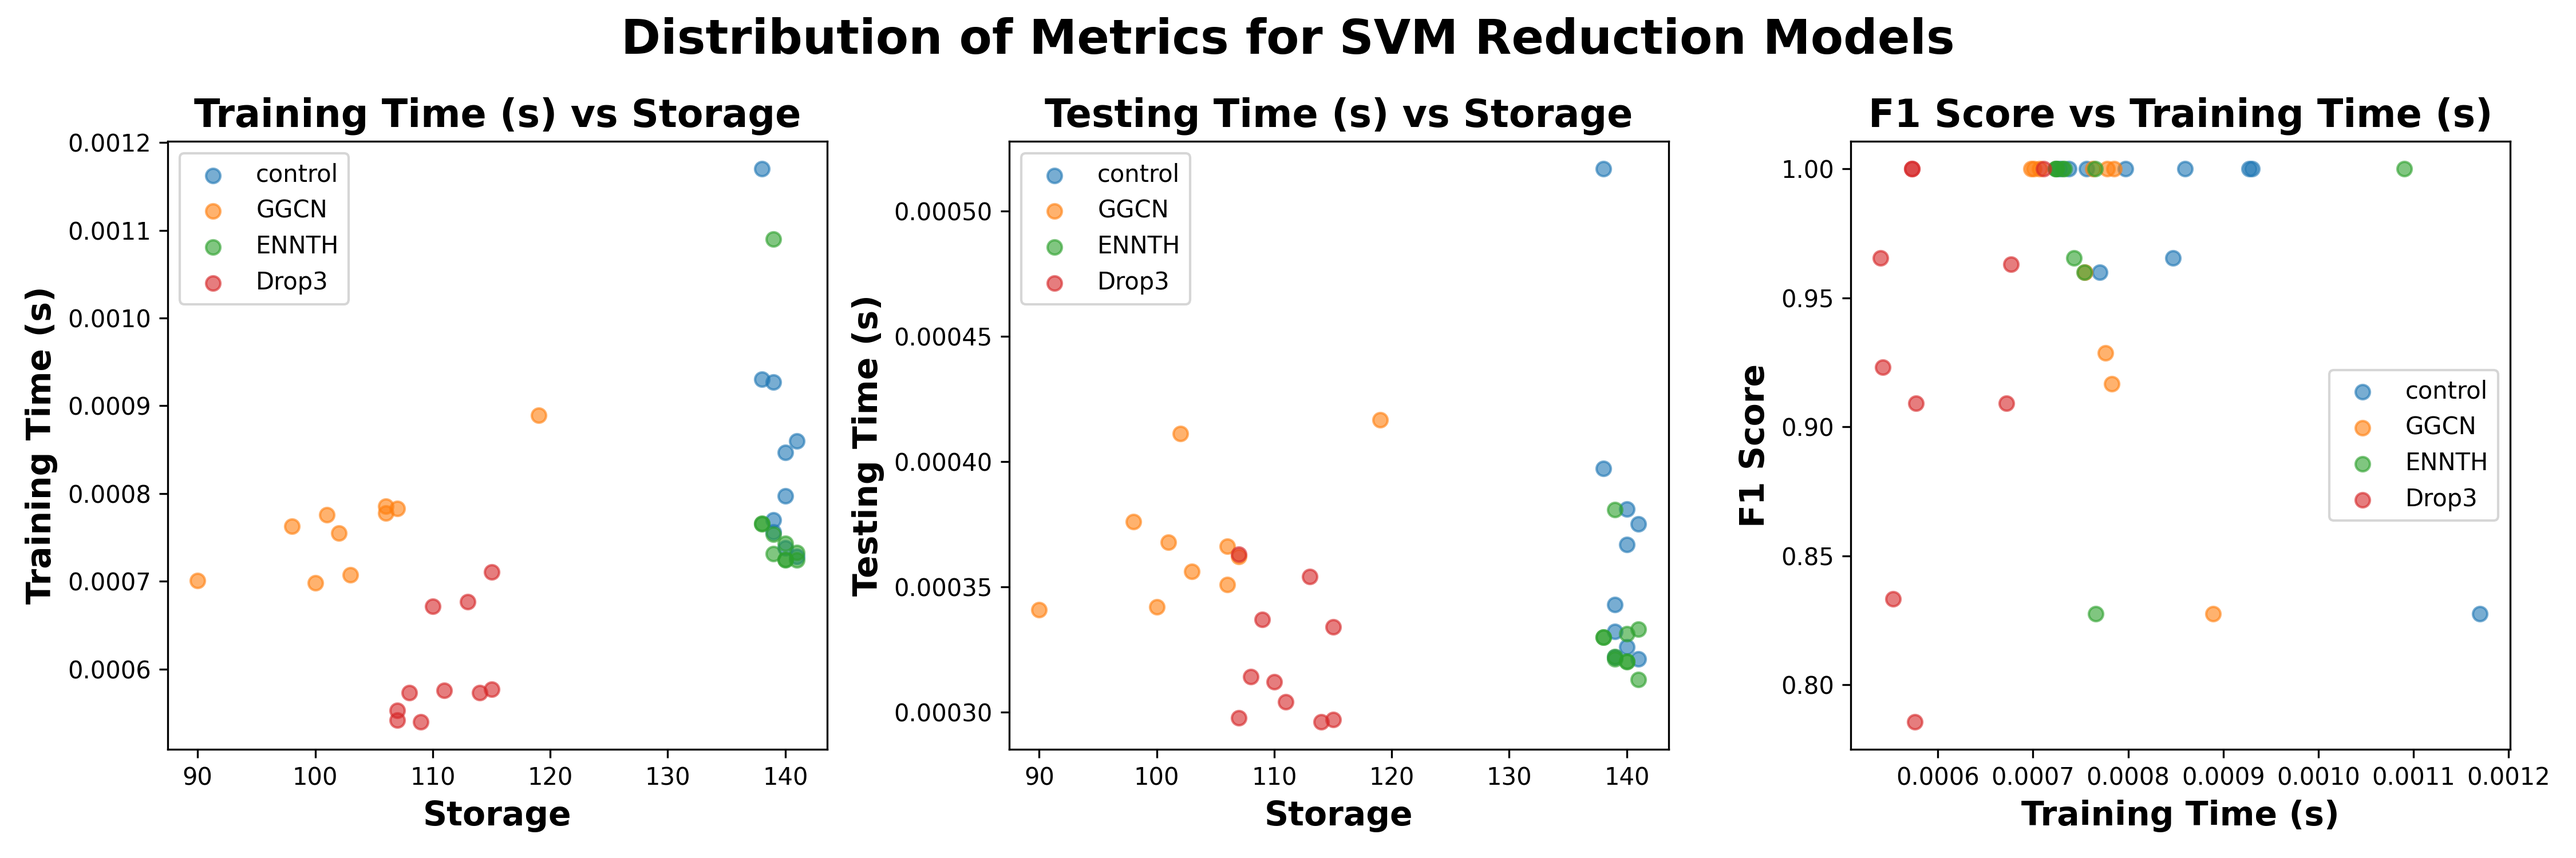
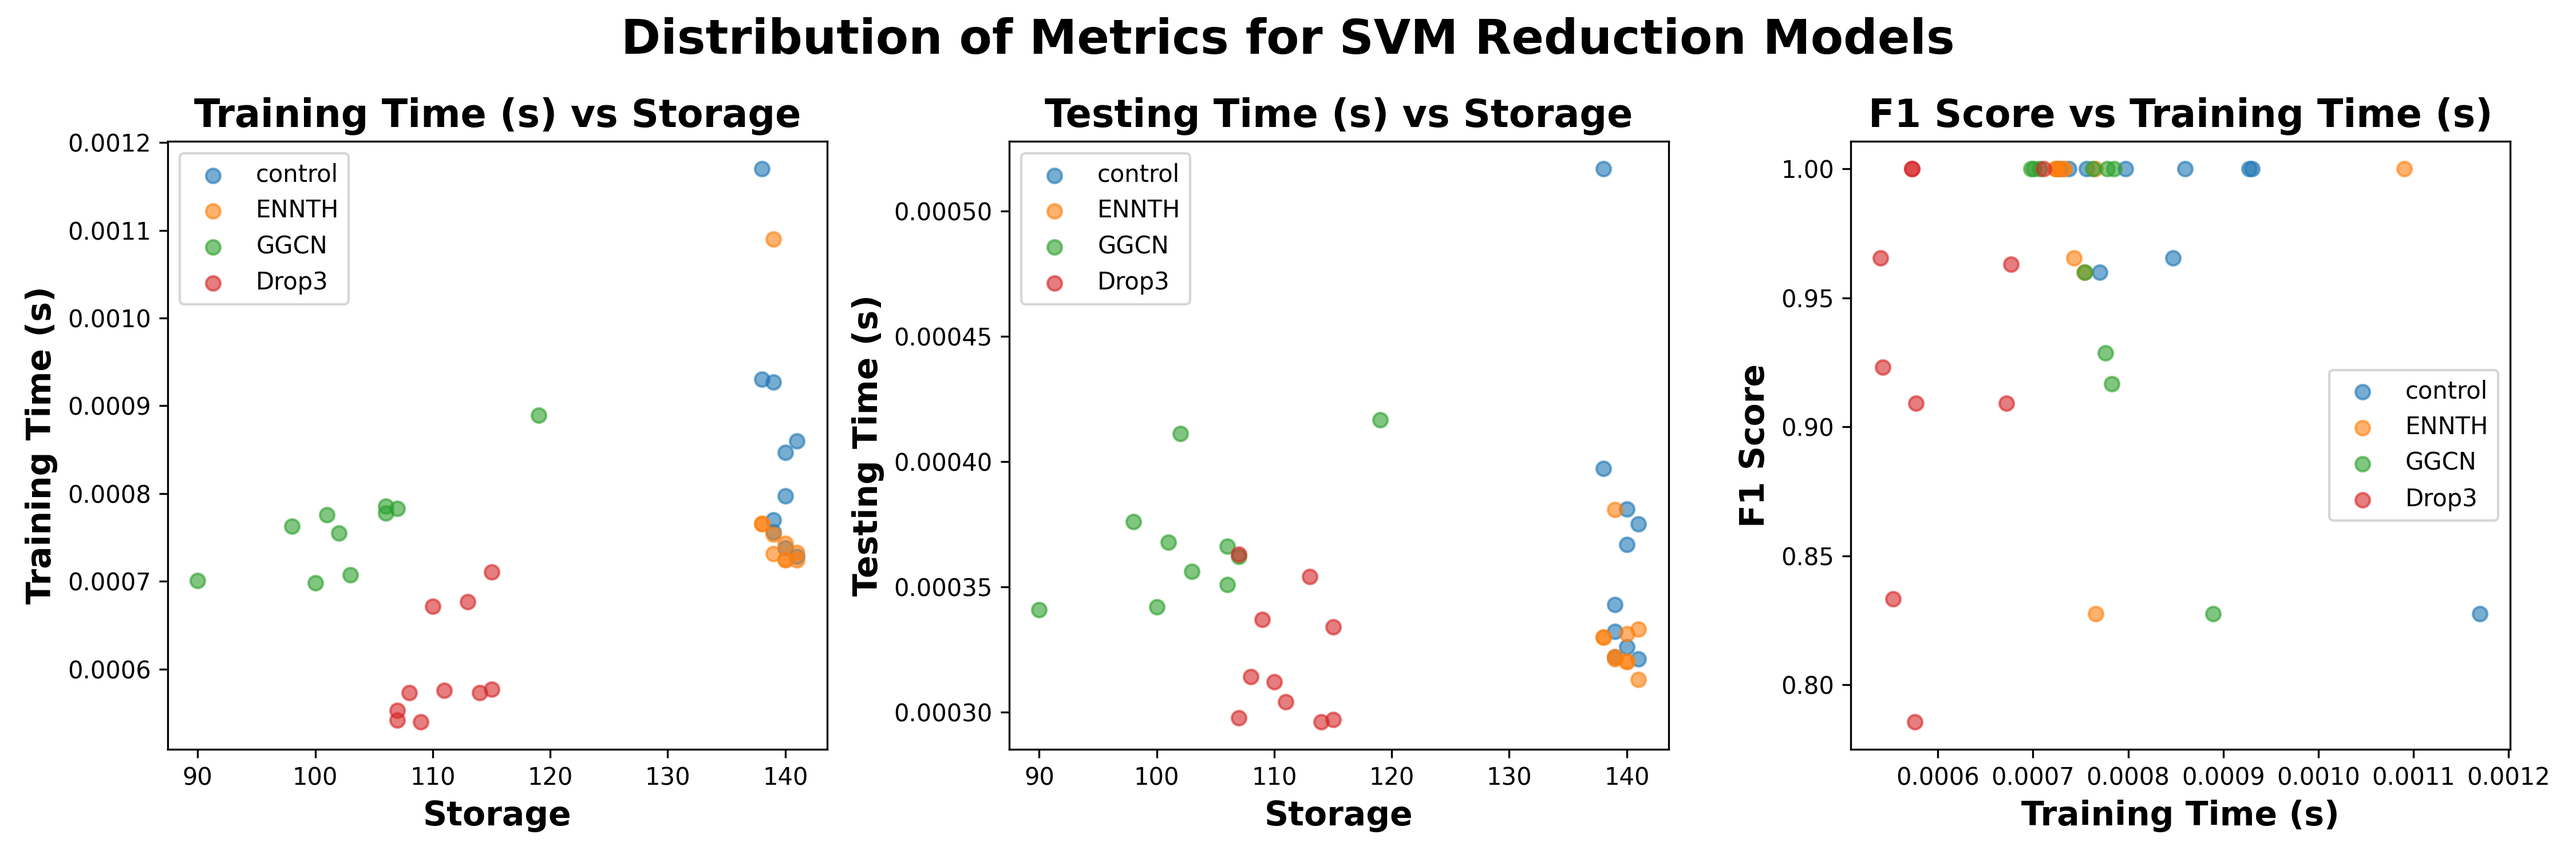
update tables and figures

diff --git a/work2/reports/tables/knn_results_mushroom.tex b/work2/reports/tables/knn_results_mushroom.tex
@@ -1,21 +1,21 @@
 \begin{table}
 \centering
-\caption{Results from KNN models for the mushroom dataset}
+\caption{Results From Knn Models For The Mushroom Dataset}
 \label{tab:knn_results_mushroom}
-\begin{tabular}{rrlllrr}
+\begin{tabular}{rrlllrrr}
 \toprule
- & k & distance func & voting func & weighting func & accuracy & f1 \\
+ & k & distance func & voting func & weighting func & mean f1 & mean train time & mean test time \\
 \midrule
-1 & 7 & ManhattanDistance & ShepardsWorkVote & EqualWeighting & 0.951 & 0.952 \\
-2 & 5 & ManhattanDistance & ShepardsWorkVote & EqualWeighting & 0.951 & 0.952 \\
-3 & 3 & ManhattanDistance & ShepardsWorkVote & EqualWeighting & 0.951 & 0.952 \\
-4 & 1 & ManhattanDistance & MajorityClassVote & EqualWeighting & 0.950 & 0.951 \\
-5 & 1 & ManhattanDistance & InverseDistanceWeightedVote & EqualWeighting & 0.950 & 0.951 \\
-6 & 1 & ManhattanDistance & ShepardsWorkVote & EqualWeighting & 0.950 & 0.951 \\
-7 & 5 & ManhattanDistance & InverseDistanceWeightedVote & EqualWeighting & 0.933 & 0.933 \\
-8 & 7 & ManhattanDistance & InverseDistanceWeightedVote & EqualWeighting & 0.930 & 0.929 \\
-9 & 3 & ManhattanDistance & InverseDistanceWeightedVote & EqualWeighting & 0.928 & 0.929 \\
-10 & 3 & ManhattanDistance & MajorityClassVote & EqualWeighting & 0.926 & 0.927 \\
+1 & 1 & ManhattanDistance & MajorityClassVote & EqualWeighting & 1.000 & 0.000 & 15.225 \\
+2 & 3 & EuclideanDistance & InverseDistanceWeightedVote & EqualWeighting & 1.000 & 0.000 & 17.753 \\
+3 & 1 & EuclideanDistance & MajorityClassVote & EqualWeighting & 1.000 & 0.000 & 17.891 \\
+4 & 1 & ManhattanDistance & InverseDistanceWeightedVote & EqualWeighting & 1.000 & 0.000 & 15.545 \\
+5 & 1 & ManhattanDistance & ShepardsWorkVote & EqualWeighting & 1.000 & 0.000 & 14.988 \\
+6 & 1 & EuclideanDistance & InverseDistanceWeightedVote & EqualWeighting & 1.000 & 0.000 & 17.843 \\
+7 & 3 & ManhattanDistance & MajorityClassVote & EqualWeighting & 1.000 & 0.000 & 14.979 \\
+8 & 3 & ManhattanDistance & InverseDistanceWeightedVote & EqualWeighting & 1.000 & 0.000 & 15.154 \\
+9 & 3 & ManhattanDistance & ShepardsWorkVote & EqualWeighting & 1.000 & 0.000 & 15.163 \\
+10 & 3 & EuclideanDistance & MajorityClassVote & EqualWeighting & 1.000 & 0.000 & 18.055 \\
 \bottomrule
 \end{tabular}
 \end{table}

diff --git a/work2/reports/tables/knn_results_hepatitis.tex b/work2/reports/tables/knn_results_hepatitis.tex
@@ -7,15 +7,15 @@
  & k & distance func & voting func & weighting func & mean f1 & mean train time & mean test time \\
 \midrule
 1 & 1 & ChebyshevDistance & ShepardsWorkVote & EqualWeighting & 0.973 & 0.000 & 0.007 \\
-2 & 1 & ChebyshevDistance & InverseDistanceWeightedVote & EqualWeighting & 0.973 & 0.000 & 0.007 \\
-3 & 1 & ChebyshevDistance & MajorityClassVote & EqualWeighting & 0.973 & 0.000 & 0.007 \\
+2 & 1 & ChebyshevDistance & MajorityClassVote & EqualWeighting & 0.973 & 0.000 & 0.007 \\
+3 & 1 & ChebyshevDistance & InverseDistanceWeightedVote & EqualWeighting & 0.973 & 0.000 & 0.007 \\
 4 & 5 & EuclideanDistance & ShepardsWorkVote & EqualWeighting & 0.969 & 0.000 & 0.009 \\
 5 & 7 & EuclideanDistance & ShepardsWorkVote & EqualWeighting & 0.969 & 0.000 & 0.009 \\
 6 & 3 & ManhattanDistance & ShepardsWorkVote & EqualWeighting & 0.969 & 0.000 & 0.007 \\
-7 & 1 & EuclideanDistance & MajorityClassVote & ReliefFWeighting & 0.969 & 0.000 & 0.009 \\
-8 & 1 & ManhattanDistance & MajorityClassVote & EqualWeighting & 0.969 & 0.000 & 0.007 \\
-9 & 1 & EuclideanDistance & ShepardsWorkVote & EqualWeighting & 0.969 & 0.000 & 0.009 \\
-10 & 1 & EuclideanDistance & InverseDistanceWeightedVote & ReliefFWeighting & 0.969 & 0.000 & 0.009 \\
+7 & 1 & ManhattanDistance & MajorityClassVote & EqualWeighting & 0.969 & 0.000 & 0.007 \\
+8 & 1 & EuclideanDistance & ShepardsWorkVote & ReliefFWeighting & 0.969 & 0.000 & 0.009 \\
+9 & 1 & ManhattanDistance & ShepardsWorkVote & EqualWeighting & 0.969 & 0.000 & 0.007 \\
+10 & 1 & EuclideanDistance & MajorityClassVote & EqualWeighting & 0.969 & 0.000 & 0.009 \\
 \bottomrule
 \end{tabular}
 \end{table}

diff --git a/work2/reports/tables/knn_reduction_results_mushroom.tex b/work2/reports/tables/knn_reduction_results_mushroom.tex
@@ -1,15 +1,15 @@
 \begin{table}
 \centering
-\caption{Results from KNN models for the mushroom dataset with dimensionality reduction}
+\caption{Results From Knn Models For The Mushroom Dataset With Dimensionality Reduction}
 \label{tab:knn_reduction_results_mushroom}
-\begin{tabular}{rrlrrrrr}
+\begin{tabular}{rlrlllrrrr}
 \toprule
- & k & reduction func & accuracy & f1 & train time & test time & storage \\
+ & reduction func & k & distance func & voting func & weighting func & mean f1 & mean train time & mean test time & mean storage \\
 \midrule
-1 & 1 & control & 0.950 & 0.951 & 0.000 & 0.255 & 1000 \\
-2 & 1 & enn & 0.950 & 0.951 & 0.000 & 0.255 & 1000 \\
-3 & 1 & drop2 & 0.950 & 0.951 & 0.000 & 0.257 & 1000 \\
-4 & 1 & cnn & 0.925 & 0.929 & 0.000 & 0.065 & 189 \\
+1 & control & 1 & ManhattanDistance & MajorityClassVote & EqualWeighting & 1.000 & 0.000 & 15.165 & 7311.600 \\
+2 & GGCN & 1 & ManhattanDistance & MajorityClassVote & EqualWeighting & 1.000 & 0.000 & 7.278 & 3519.800 \\
+3 & ENNTH & 1 & ManhattanDistance & MajorityClassVote & EqualWeighting & 1.000 & 0.000 & 15.091 & 7311.600 \\
+4 & Drop3 & 1 & ManhattanDistance & MajorityClassVote & EqualWeighting & 1.000 & 0.000 & 15.080 & 7311.600 \\
 \bottomrule
 \end{tabular}
 \end{table}

diff --git a/work2/reports/tables/svm_results_mushroom.tex b/work2/reports/tables/svm_results_mushroom.tex
@@ -1,21 +1,21 @@
 \begin{table}
 \centering
-\caption{Results from SVM models for the mushroom dataset}
+\caption{Results From Svm Models For The Mushroom Dataset}
 \label{tab:svm_results_mushroom}
-\begin{tabular}{rrlrr}
+\begin{tabular}{rrlrrr}
 \toprule
- & C & kernel type & accuracy & f1 \\
+ & C & kernel type & mean f1 & mean train time & mean test time \\
 \midrule
-1 & 1 & poly & 0.928 & 0.928 \\
-2 & 7 & rbf & 0.926 & 0.926 \\
-3 & 5 & rbf & 0.925 & 0.925 \\
-4 & 3 & rbf & 0.924 & 0.924 \\
-5 & 7 & poly & 0.920 & 0.920 \\
-6 & 5 & poly & 0.916 & 0.916 \\
-7 & 3 & poly & 0.916 & 0.915 \\
-8 & 3 & linear & 0.914 & 0.912 \\
-9 & 1 & linear & 0.911 & 0.910 \\
-10 & 1 & rbf & 0.906 & 0.902 \\
+1 & 3 & poly & 1.000 & 0.116 & 0.004 \\
+2 & 5 & poly & 1.000 & 0.115 & 0.003 \\
+3 & 7 & poly & 1.000 & 0.117 & 0.003 \\
+4 & 5 & rbf & 1.000 & 0.101 & 0.014 \\
+5 & 7 & rbf & 1.000 & 0.093 & 0.012 \\
+6 & 3 & rbf & 0.999 & 0.121 & 0.018 \\
+7 & 1 & poly & 0.999 & 0.129 & 0.008 \\
+8 & 1 & rbf & 0.989 & 0.178 & 0.030 \\
+9 & 7 & linear & 0.983 & 1.623 & 0.015 \\
+10 & 5 & linear & 0.983 & 1.185 & 0.013 \\
 \bottomrule
 \end{tabular}
 \end{table}

diff --git a/work2/reports/tables/svm_reduction_results_mushroom.tex b/work2/reports/tables/svm_reduction_results_mushroom.tex
@@ -1,0 +1,15 @@
+\begin{table}
+\centering
+\caption{Results From Svm Models For The Mushroom Dataset With Dimensionality Reduction}
+\label{tab:svm_reduction_results_mushroom}
+\begin{tabular}{rlrlrrrr}
+\toprule
+ & reduction func & C & kernel type & mean f1 & mean train time & mean test time & mean storage \\
+\midrule
+1 & control & 3 & poly & 1.000 & 0.118 & 0.004 & 7311.600 \\
+2 & ENNTH & 3 & poly & 1.000 & 0.116 & 0.004 & 7311.600 \\
+3 & Drop3 & 3 & poly & 1.000 & 0.116 & 0.004 & 7311.600 \\
+4 & GGCN & 3 & poly & 0.967 & 0.038 & 0.003 & 3519.800 \\
+\bottomrule
+\end{tabular}
+\end{table}

diff --git a/work2/reports/tables/SVM-Reduction_legend.tex b/work2/reports/tables/SVM-Reduction_legend.tex
@@ -7,8 +7,8 @@
 Model Label & C & Kernel Type \\
 \midrule
 CtrlC7Rbf & 7 & rbf \\
-GgcnC7Rbf & 7 & rbf \\
 EnnthC7Rbf & 7 & rbf \\
+GgcnC7Rbf & 7 & rbf \\
 Drop3C7Rbf & 7 & rbf \\
 \bottomrule
 \end{tabular}
